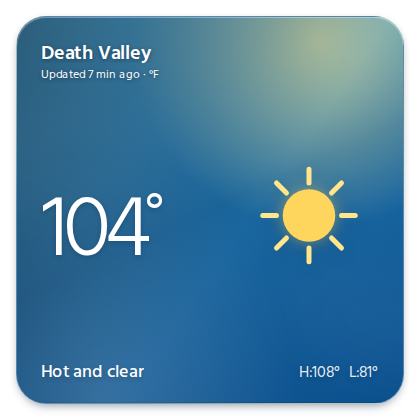
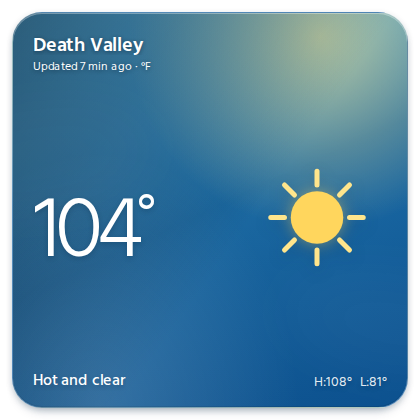
Weather: address second spec review
Past days dropped, a clear-night story, Now shows current conditions,
display rules owned once by the store contract.

Changed region(s): [[0.031, 0.031, 0.9905, 0.9905], [0.0929, 0.4333, 0.4024, 0.619], [0.619, 0.4024, 0.8667, 0.65]]

diff --git a/storybook/spec/templates/weather/weather.stories.ts b/storybook/spec/templates/weather/weather.stories.ts
@@ -113,7 +113,7 @@ const weatherGlyph = (condition: Condition, isDay: boolean, size: "hero" | "hour
       <path class="weather-rain weather-rain-side" d="M64 167l-7 16M174 165l-7 16"></path>`;
   } else {
     artwork = html`
-      <g class="weather-fog-orb">${orb}</g>${cloud}
+      ${cloud}
       <g class="weather-fog-lines">
         <path d="M31 154h150M48 174h143M27 194h118"></path>
       </g>`;
@@ -122,7 +122,13 @@ const weatherGlyph = (condition: Condition, isDay: boolean, size: "hero" | "hour
   return html`<svg class="weather-glyph weather-glyph-${size} weather-glyph-${condition}" viewBox="0 0 224 224" aria-hidden="true">${artwork}</svg>`;
 };
 
-const reading = (value: number) => String(Math.round(value)).replace("-", "−");
+const roundedTemperature = (value: number) => {
+  const magnitude = Math.round(Math.abs(value));
+  if (magnitude === 0) return 0;
+  return value < 0 ? -magnitude : magnitude;
+};
+
+const reading = (value: number) => String(roundedTemperature(value)).replace("-", "−");
 const degree = (value: number) => `${reading(value)}°`;
 
 const atmosphere = html`
@@ -135,7 +141,7 @@ const currentWeather = (forecast: Forecast) => {
   const today = forecast.daily.find((day) => day.label === "Today");
   return html`
   <section class="weather-current" aria-label="Current weather">
-    <div class="weather-temperature" aria-label="${Math.round(forecast.current.temperature)} degrees ${forecast.unit === "C" ? "Celsius" : "Fahrenheit"}">
+    <div class="weather-temperature" aria-label="${roundedTemperature(forecast.current.temperature)} degrees ${forecast.unit === "C" ? "Celsius" : "Fahrenheit"}">
       ${reading(forecast.current.temperature)}<span aria-hidden="true">°</span>
     </div>
     <div class="weather-current-glyph">${weatherGlyph(forecast.current.condition, forecast.current.isDay)}</div>
@@ -149,12 +155,18 @@ const currentWeather = (forecast: Forecast) => {
 const hourlyForecast = (forecast: Forecast) => html`
   <section class="weather-panel weather-hourly" aria-label="Hourly forecast">
     <h2>Hourly forecast</h2>
-    <div class="weather-hourly-strip" tabindex="0" aria-label="Hourly forecast hours; scroll for later hours">${forecast.hourly.map((hour) => html`
+    <div class="weather-hourly-strip" tabindex="0" aria-label="Hourly forecast hours; scroll for later hours">${forecast.hourly.map((hour, index) => {
+      const isNow = index === 0 && hour.label === "Now";
+      const temperature = isNow ? forecast.current.temperature : hour.temperature;
+      const condition = isNow ? forecast.current.condition : hour.condition;
+      const isDay = isNow ? forecast.current.isDay : hour.isDay;
+      return html`
       <div class="weather-hour">
         <span class="weather-hour-label">${hour.label}</span>
-        <span class="weather-hour-condition" role="img" aria-label="${conditionNames[hour.condition]}">${weatherGlyph(hour.condition, hour.isDay, "hour")}</span>
-        <strong>${degree(hour.temperature)}</strong>
-      </div>`)}</div>
+        <span class="weather-hour-condition" role="img" aria-label="${conditionNames[condition]}">${weatherGlyph(condition, isDay, "hour")}</span>
+        <strong>${degree(temperature)}</strong>
+      </div>`;
+    })}</div>
   </section>`;
 
 const dailyForecast = (forecast: Forecast) => {
@@ -188,14 +200,14 @@ const placeholder = (state: Exclude<State, "ready">) => {
   if (state === "unreadable") return html`
     <div class="weather-placeholder-content weather-error" role="alert">
       <span class="weather-placeholder-icon">${icon({ name: "warning", size: "xl" })}</span>
-      <h1>This weather can't be shown</h1>
+      <h1>This forecast can't be shown</h1>
       <p>Its saved data isn't in the form this page reads. Ask your agent to check it.</p>
     </div>`;
   return html`
     <div class="weather-placeholder-content weather-empty">
       ${weatherGlyph("partly-cloudy", true, "empty")}
       <h1>No forecast yet</h1>
-      <p>Ask your agent for the weather here.</p>
+      <p>Ask your agent to add a forecast for a place.</p>
     </div>`;
 };
 
@@ -222,8 +234,8 @@ const render = ({ theme, state, forecast }: Args) => {
           </div>
         </header>
         ${currentWeather(forecast)}
-        ${hourlyForecast(forecast)}
-        ${dailyForecast(forecast)}
+        ${forecast.hourly.length > 0 ? hourlyForecast(forecast) : html``}
+        ${forecast.daily.length > 0 ? dailyForecast(forecast) : html``}
       </div>
     </article>
   </main>`;
@@ -272,6 +284,19 @@ const edinburghNight: Forecast = {
   ],
 };
 
+const sedonaNight: Forecast = {
+  place: "Sedona",
+  unit: "F",
+  updated: "4 min ago",
+  current: { temperature: 52, condition: "clear", summary: "Clear night", isDay: false },
+  hourly: hours([52, 50, 48, 46, 45, 44, 43, 44], ["clear"], nightLabels, 0),
+  daily: [
+    { label: "Today", temperatureHigh: 67, temperatureLow: 43, condition: "clear" },
+    { label: "Wed", temperatureHigh: 69, temperatureLow: 44, condition: "clear" },
+    { label: "Thu", temperatureHigh: 66, temperatureLow: 42, condition: "partly-cloudy" },
+  ],
+};
+
 const seattleCloudy: Forecast = {
   place: "Seattle",
   unit: "F",
@@ -302,7 +327,7 @@ const montrealSnow: Forecast = {
   place: "Montréal",
   unit: "C",
   updated: "21 min ago",
-  current: { temperature: -12, condition: "snow", summary: "Light snow", isDay: true },
+  current: { temperature: -11.5, condition: "snow", summary: "Light snow", isDay: true },
   hourly: hours([-12, -11, -10, -9, -8, -9, -11, -13], ["snow", "snow", "cloudy"], daytimeLabels, 7),
   daily: [
     { label: "Today", temperatureHigh: -8, temperatureLow: -15, condition: "snow" },
@@ -346,7 +371,9 @@ const london: Forecast = {
   unit: "C",
   updated: "9 min ago",
   current: { temperature: 16, condition: "partly-cloudy", summary: "Sun and clouds", isDay: true },
-  hourly: hours([16, 17, 18, 18, 17, 16, 15, 14, 13, 12, 12, 11], ["partly-cloudy", "clear", "cloudy", "rain"], daytimeLabels, 8),
+  // The stored current-hour forecast intentionally differs from current;
+  // the visible Now cell must use current conditions.
+  hourly: hours([15, 17, 18, 18, 17, 16, 15, 14, 13, 12, 12, 11], ["rain", "clear", "cloudy", "rain"], daytimeLabels, 8),
   daily: [
     { label: "Today", temperatureHigh: 18, temperatureLow: 10, condition: "partly-cloudy" },
     { label: "Wed", temperatureHigh: 16, temperatureLow: 9, condition: "rain" },
@@ -398,6 +425,7 @@ export default {
 };
 
 export const ClearDay = { name: "Clear day" };
+export const ClearNight = { name: "Clear night", args: { forecast: sedonaNight } };
 export const PartlyCloudyNight = { name: "Partly cloudy night", args: { forecast: edinburghNight } };
 export const Cloudy = { args: { forecast: seattleCloudy } };
 export const Rain = { ...sized("medium"), args: { forecast: portlandRain } };

diff --git a/storybook/spec/templates/weather/styles.css b/storybook/spec/templates/weather/styles.css
@@ -372,7 +372,6 @@ body {
   translate: 0 -4px;
 }
 
-.weather-fog-orb { opacity: 0.52; }
 .weather-fog-lines path {
   fill: none;
   stroke: rgb(244 250 252 / 88%);
@@ -570,17 +569,6 @@ body {
 }
 
 .weather-empty h1 { margin-top: 0; }
-
-@media (min-width: 380px) and (min-height: 380px) {
-  .weather-page { padding: var(--space-16); }
-
-  .weather-content {
-    padding: var(--space-24) var(--space-24) var(--space-20);
-  }
-
-  .weather-summary { font-size: var(--text-xl); }
-  .weather-high-low { font-size: var(--text-lg); }
-}
 
 @media (min-width: 600px) and (min-height: 480px) {
   .weather-page { padding: var(--space-16); }

diff --git a/docs/working/weather-plan.md b/docs/working/weather-plan.md
@@ -7,23 +7,23 @@ Weather is being drafted as a bundled artifact template with a compact, polished
 - Make the page a reader of agent-written store data. The page subscribes to the whole store, never writes, and makes no weather-service request. An agent fetches the forecast and replaces the stored root.
 - Keep `{}` as the explicit, inspectable starting and reset value in `data.json`. A removed root can also occur and intentionally shows the same empty prompt. Keeping both forms makes a new artifact predictable without treating root removal as an error.
 - Store `place`, an IANA `timeZone`, `units`, `observedAt`, one `current` object, `hourly` entries, and `daily` entries. Keep the first version narrow: temperatures and seven designed conditions only, with no wind, precipitation amount, humidity, air quality, alerts, coordinates, provider metadata, or interaction.
-- Treat `observedAt` and every hourly timestamp as an instant. Accept `Z` or any numeric offset, including optional fractional seconds, then convert the instant to `timeZone` for labels and current-hour selection. Sort hours by instant, which keeps repeated clock labels ordered across a daylight-saving fallback. A “Now” match also includes the effective UTC offset, so only one repeated hour is current. Sort daily entries by date.
-- Let the page tolerate harmless agent output. After stable sorting, keep the first entry for each duplicate instant or date. Show the current and following forecast hours, up to 24, and the first seven distinct sorted days; array order and having more entries do not invalidate an otherwise valid forecast. Every stored item must still have valid fields. Keep only the page-level checks needed to prevent a wrong display: dates and timestamps must be real, `timeZone` must be recognized by the browser, and a daily high cannot be lower than its low. Those checks protect date labels, time conversion, and temperature ranges.
-- Use the closed condition vocabulary `clear`, `partly-cloudy`, `cloudy`, `rain`, `snow`, `thunderstorm`, and `fog`. `cloudy` has a layered overcast sky and artwork with no sun or moon. README guidance maps common provider terms, including drizzle, freezing rain, sleet, haze, and smoke, onto this vocabulary. Each current and hourly entry carries `isDay`, so the page does not infer daylight from the viewer clock.
+- Treat `observedAt` and every hourly timestamp as an instant. `observedAt` is when the agent fetched the complete forecast, not the provider observation time. Accept `Z` or any numeric offset, including optional fractional seconds, then convert hourly instants to `timeZone` for labels and current-hour selection. Sort hours by instant, which keeps repeated clock labels ordered across a daylight-saving fallback. Define the current hour as the local clock-hour interval containing the current instant, and define the current date as the local calendar date containing it. Sort daily entries by date.
+- Let the page tolerate harmless agent output. After stable sorting, keep the first entry for each duplicate instant or date. Show the current and following forecast hours, up to 24, and omit the hourly panel when none remain. Omit dates before the current date, show up to seven remaining distinct days, and omit the daily panel when none remain. Array order and extra entries do not invalidate an otherwise valid forecast. Every stored item must still have valid fields. Keep only the page-level checks needed to prevent a wrong display: dates and timestamps must be real, `timeZone` must be recognized by the browser, and a daily high cannot be lower than its low. Those checks protect date labels, time conversion, and temperature ranges. Keep these selection and validity rules in the store contract; the UI spec links to that single definition.
+- Use the closed condition vocabulary `clear`, `partly-cloudy`, `cloudy`, `rain`, `snow`, `thunderstorm`, and `fog`. `cloudy` has a layered overcast sky and artwork with no sun or moon. README guidance maps common provider terms, including drizzle, freezing rain, sleet, haze, and smoke, onto this vocabulary. Each current and hourly entry carries `isDay`, so the page does not infer daylight from the viewer clock. Only clear and partly cloudy change their sky and artwork between day and night; the other conditions use one design at either time.
 - Derive the displayed current high and low from the daily entry for the current date at `timeZone`. Do not duplicate them in `current`. If that entry is absent, omit the high-and-low line instead of showing another day or rejecting otherwise readable data.
-- Show how old the weather is from `observedAt`, next to the place and unit. Use completed units and the fixed forms “Updated now”, “Updated 1 min ago” or “Updated N min ago”, “Updated 1 hr ago” or “Updated N hrs ago”, and “Updated 1 day ago” or “Updated N days ago”. Future clock skew also shows “Updated now”. Refresh the age while the page stays open.
-- Start the hourly strip with the current hour and call it “Now”. Omit earlier hours. If the current hour is missing, start with the first later instant and do not label it “Now”. If every stored hour is past, omit the hourly panel. Refresh that selection while the page stays open. Convert later labels to `timeZone`, then format them in the viewer locale; spec stories use `en-US`.
-- Label the current daily entry “Today” and refresh the label while the page stays open. The large-panel heading counts the displayed rows, such as “4-day forecast”, instead of assuming seven.
-- Round temperatures to whole degrees for display without changing stored values. Keep the selected unit explicit as `°C` or `°F` rather than relying on magnitude to imply it.
+- Show how long ago the agent fetched the forecast from `observedAt`, below the place and beside the unit. Use completed units and the fixed forms “Updated now”, “Updated 1 min ago” or “Updated N min ago”, “Updated 1 hr ago” or “Updated N hrs ago”, and “Updated 1 day ago” or “Updated N days ago”. Future clock skew also shows “Updated now”. Refresh the age while the page stays open.
+- Start the hourly strip with the first entry in the current hour and call it “Now”. The “Now” cell uses temperature, condition, and daylight from `current`, even if the matching hourly forecast differs. If several entries fall in the current hour, the first is “Now”; later ones use their hourly values and time labels. If the current hour is missing, start with the first later instant and do not label it “Now”. Ask agents to supply one entry per local hour on the hour. Refresh the selection while the page stays open. Convert later labels to `timeZone`, then format them with the `en-US` locale.
+- Label the current daily entry “Today” and refresh the label while the page stays open. Format other weekdays with the `en-US` locale. The large-panel heading counts the displayed rows, such as “4-day forecast”, instead of assuming seven.
+- Round temperatures to whole degrees, with halves away from zero, without changing stored values. Normalize a rounded zero so the page never shows `−0°`. Keep the selected unit explicit as `°C` or `°F` rather than relying on magnitude to imply it.
 - Draft a 340-by-340-pixel default and `transparent: true`. The page paints one inset, rounded sky card with its own rim and bounded shadow, so the artifact reads as a floating weather widget rather than a rectangular document. Temperature and artwork scale together so `104°` and `−12°` fit at the default size.
 - Use three layouts based on both artifact width and height. Small applies below 600 pixels wide or 480 pixels high and shows current conditions. Medium begins at 600 by 480 and adds a horizontally scrolling hourly strip. Large begins at 760 by 740 and adds the daily forecast with shared-scale range bars. Keep a wide, short artifact in the current-only layout: width alone would need a fourth side-by-side composition, while the height gate preserves the legibility of the forecast panel.
-- Let condition and `isDay` choose fixed sky gradients and artwork. Use white text with subtle shadows on every sky. Bright daytime skies darken locally behind the upper-left text so white remains legible. Do not let the active Television theme recolour the sky, because a theme could make daytime look like night or rain look clear. Continue using foundation typography and spacing so the card belongs with the rest of Television.
+- Let condition choose fixed sky gradients and artwork; `isDay` selects the day or night design only for clear and partly cloudy conditions. Use white text with subtle shadows on every sky and a local dark gradient behind the upper-left text. Do not let the active Television theme recolour the sky, because a theme could make daytime look like night or rain look clear. Continue using foundation typography and spacing so the card belongs with the rest of Television.
 - Draw the seven weather glyphs as a coherent first-party SVG set owned by the page. Do not add them to the closed foundation icon vocabulary or introduce third-party weather artwork. The production package will reuse the Phosphor warning and spinner icons from the foundation, so the later implementation must register those copied assets and include the generated `THIRD-PARTY-NOTICES.txt` required by the licensing spec.
 - Make the Toolbox icon a separate first-party square SVG: a rounded blue tile, gold sun, and white cloud. The icon is described now and added with the package after spec approval.
-- Use a calm fixed blue sky for empty, loading, and unreadable states in both appearances. The empty copy is “No forecast yet” and “Ask your agent for the weather here.” The unreadable copy follows the established bundled-template alert.
+- Use a calm fixed blue sky for empty, loading, and unreadable states in both appearances. The empty copy is “No forecast yet” and “Ask your agent to add a forecast for a place.” The unreadable heading is “This forecast can't be shown”; the rest of the alert follows the established bundled-template pattern.
 - Keep access loss and disconnection quiet. The page retains the last forecast, catches up after recovery, and remains in loading only if no store value has arrived. Read-only sharing does not remove forecast browsing because the page has no write interaction.
-- Cover 17 conformance states in the draft stories: clear day in Fahrenheit; partly cloudy night in Celsius; cloudy; rain; snow; night thunderstorm at medium and large sizes; fog; a three-digit Fahrenheit reading; a missing current-day range; explicit medium and large layouts; a four-day large forecast; loading; empty; unreadable; and clear daylight under dark appearance.
-- Keep every story deterministic. The fixtures carry fixed labels and observation ages; the story page makes no network request and does not read the current date, location, or weather. New Orleans has a coherent night-time hourly sequence and its own stormy week.
+- Cover 18 conformance states in the draft stories: clear day and clear night in Fahrenheit; partly cloudy night in Celsius; cloudy; rain; snow; night thunderstorm at medium and large sizes; fog; a three-digit Fahrenheit reading; a missing current-day range; explicit medium and large layouts; a four-day large forecast; loading; empty; unreadable; and clear daylight under dark appearance.
+- Keep every story deterministic. The fixtures carry fixed English labels and fetch ages; the story page makes no network request and does not read the current date, location, or weather. New Orleans has a coherent night-time hourly sequence and its own stormy week. The London fixture makes its current-hour forecast differ from `current`, so its “Now” cell binds the current-condition rule.
 - Keep shared inventory edits to the bundled row and tuple, the three Weather mentions in the migration map, and the generated spec index. The generic template, installation, product, and licensing specs already govern the new package.
 
 ## Open questions for Rupert
@@ -42,4 +42,4 @@ Weather is being drafted as a bundled artifact template with a compact, polished
 - **Should the first version carry more weather facts?** Recommendation: no. Wind, precipitation, humidity, alerts, and feels-like temperature would compete with the requested hierarchy. Current temperature, short condition, high and low, hourly temperatures, and daily ranges are enough for a polished first version.
 - **Should provider attribution be a store field and visible in the card?** Recommendation: not in the agent-written default. The template does not choose or call a provider, so it cannot prescribe one attribution shape. If Rupert chooses a self-fetching provider instead, provider attribution becomes part of that architecture and UI decision.
 - **Does the visual direction feel sufficiently Apple-like without copying Apple artwork?** Recommendation: keep the atmospheric gradients, oversized temperature, translucent forecast panels, restrained white type, and original SVGs. The locally darkened header area protects contrast without turning bright skies into dark cards.
-- **Is the 17-story review surface the right granularity?** Recommendation: yes. Every condition needs a binding current-condition card, responsive composition, the missing current-day range, and variable day count need dedicated states, and the three exceptional store states plus theme invariance remain separate.
+- **Is the 18-story review surface the right granularity?** Recommendation: yes. Every condition needs a binding current-condition card, clear and partly cloudy need their day-or-night designs approved, responsive composition, the missing current-day range, and variable day count need dedicated states, and the three exceptional store states plus theme invariance remain separate.

diff --git a/specs/arch/templates/weather.md b/specs/arch/templates/weather.md
@@ -53,7 +53,7 @@ The template `data.json` seeds the [JSON store belonging to the artifact](../../
       "type": "object",
       "required": ["date", "condition", "high", "low"],
       "properties": {
-        "date": { "$ref": "#/$defs/date" },
+        "date": { "$ref": "#/$defs/date", "description": "Local calendar date at timeZone." },
         "condition": { "$ref": "#/$defs/condition" },
         "high": { "type": "number", "description": "Forecast high temperature in the selected units." },
         "low": { "type": "number", "description": "Forecast low temperature in the selected units." }
@@ -66,7 +66,7 @@ The template `data.json` seeds the [JSON store belonging to the artifact](../../
         "place": { "type": "string", "minLength": 1, "description": "Place name shown on the page." },
         "timeZone": { "type": "string", "minLength": 1, "description": "IANA time-zone identifier for the place." },
         "units": { "enum": ["celsius", "fahrenheit"], "description": "Temperature units for every value in the forecast." },
-        "observedAt": { "$ref": "#/$defs/dateTime", "description": "Instant when the current conditions were observed. Any explicit UTC offset is accepted." },
+        "observedAt": { "$ref": "#/$defs/dateTime", "description": "Instant when the agent fetched this forecast. Any explicit UTC offset is accepted." },
         "current": { "$ref": "#/$defs/current" },
         "hourly": {
           "type": "array",
@@ -86,20 +86,24 @@ The template `data.json` seeds the [JSON store belonging to the artifact](../../
 }
 ```
 
-The schema checks the forms of dates and times, not that they exist, and cannot enumerate IANA time-zone identifiers. The page additionally requires real dates and timestamp instants, a `timeZone` recognized by the browser, and each daily high to be at least its low. These checks prevent false date labels, time-zone conversions, and temperature ranges. A complete value that breaks one of these rules is shown as the [Weather UI spec](../../ui/templates/weather.mdx#data-the-page-cannot-read) describes. Extra fields are ignored.
+The schema checks the forms of dates and times, not that they exist, and cannot enumerate IANA time-zone identifiers. The page additionally requires real dates and timestamp instants, a `timeZone` recognized by the browser, and each daily high to be at least its low. These checks keep the page from displaying dates, local times, or temperature ranges it cannot determine correctly. A complete value that breaks one of these rules is shown as the [Weather UI spec](../../ui/templates/weather.mdx#data-the-page-cannot-read) describes. Extra fields are ignored.
 
-The page parses every timestamp as an instant, regardless of its written offset. It stably sorts hourly entries by instant and daily entries by date, then keeps the first entry for each duplicate instant or date. It omits hourly entries before the current hour at `timeZone`, then shows the current hour and up to 23 following entries. A current-hour match has the same converted year, month, date, hour, and effective UTC offset as the current time, so only one repeated daylight-saving hour can be “Now”. If the stored hours have no current-hour entry, the page starts with the first later instant and no entry is labelled “Now”. If every stored hour is earlier, the page omits the hourly panel. It shows the first seven sorted, distinct daily entries. Having more than either displayed limit does not make an otherwise valid forecast unreadable; every stored entry must still satisfy the schema and the page checks.
+The page parses every timestamp as an instant, regardless of its written offset. The current hour at `timeZone` is the local clock-hour interval containing the current instant; an hourly entry is current when its instant falls within that interval. The current date at `timeZone` is the local calendar date containing the current instant. These definitions distinguish repeated clock hours during a daylight-saving fallback.
+
+The page stably sorts hourly entries by instant and daily entries by date, then keeps the first entry for each duplicate instant or date. It omits hourly entries before the current hour and shows at most 24 entries from the current hour forward. The first entry within the current hour is labelled “Now”; any further entry in that hour uses its time label. If no entry falls within the current hour, the page starts with the first later instant and does not show “Now”. If no hourly entries remain, the page omits the hourly panel.
+
+The page omits daily entries before the current date, then shows the first seven sorted, distinct entries. The entry for the current date is labelled “Today”. If no daily entries remain, the page omits the daily panel. The page refreshes the hourly and daily windows and the “Now” and “Today” labels while it remains open. Having more than either displayed limit does not make an otherwise valid forecast unreadable; every stored entry must still satisfy the schema and the page checks. ^bundled-artifact-template-weather-windows
 
 The current high and low come from the retained daily entry whose date is the current date at `timeZone`. If no daily entry matches, the page omits the high-and-low line rather than using another day. The README tells agents to include the current date in `daily`.
 
-The page subscribes to the whole store through the [resource SDK](../resources/sdk.md) and makes no store writes. Before the subscription returns its first result, the page shows the loading state. Once it returns, no value or the empty object shows the empty forecast state. Any other value must be one complete forecast. The page derives the age shown beside the place from `observedAt`; it never fetches weather or changes the stored forecast. Changes from an agent appear live.
+The page subscribes to the whole store through the [resource SDK](../resources/sdk.md) and makes no store writes. Before the subscription returns its first result, the page shows the loading state. Once it returns, no value or the empty object shows the empty forecast state. Any other value must be one complete forecast. The page derives the “Updated” age shown below the place from the time in `observedAt`, when the agent fetched the forecast; it never fetches weather or changes the stored forecast. Changes from an agent appear live.
 
 ## Packaged page and guidance
 
 The page loads the canonical Television stylesheet and resource SDK, and includes its other page dependencies inside the template folder so copied artifacts work independently. Its stylesheet is `styles.css` in the template folder; [conformance](../../spec-ui.md#conformance) holds the page to the UI spec stories. Weather-condition artwork and the square `icon.svg` are first-party SVG drawings included in the template. The manifest `icons` lists `icon.svg`; [icon delivery](./index.md#icon-delivery) selects it, and [Toolbox](../../ui/app/toolbox.mdx#icons) draws it as supplied. ^bundled-artifact-template-weather-page
 
-The bundled `README.md` explains the empty starting object and every forecast field, including the IANA time zone, condition and units vocabularies, timestamp instants, sorting, displayed limits, and daily high-and-low rule. It says that `Z` means UTC and that any explicit offset is accepted because the page converts each instant to `timeZone` for display.
+The bundled `README.md` explains the empty starting object and every forecast field, including the IANA time zone, condition and units vocabularies, timestamp instants, sorting, displayed limits, and daily high-and-low rule. It says that `observedAt` is the time when the agent fetched the complete forecast and supplies the “Updated” age. It says that `Z` means UTC and that any explicit offset is accepted because the page converts each instant to `timeZone` for display.
 
 The README maps common source conditions onto the closed vocabulary: clear or sunny to `clear`; mixed sun and clouds, mostly clear, or partly cloudy to `partly-cloudy`; cloudy, mostly cloudy, or overcast to `cloudy`; drizzle, showers, rain, or freezing rain to `rain`; snow, flurries, sleet, ice pellets, or wintry mix to `snow`; thunder or lightning to `thunderstorm`; and mist, fog, haze, smoke, dust, or sand to `fog`.
 
-The README tells an adapting agent to fetch weather from a source the agent is allowed to use and replace the root in one `tv resource json set` command. It tells the agent to include the current date in `daily`, include the current hour in `hourly`, and refresh the forecast on a schedule, such as hourly. It says that the page reads the store live without writing to it or making requests to a weather service, that `observedAt` lets the page show how old the forecast is, that invalid or partial data is not repaired, and that copied artifacts are independent. It identifies `styles.css` and the first-party SVGs as the places to adapt the visual design, and explains that the transparent document background works with the manifest display setting applied at creation. ^bundled-artifact-template-weather-readme
+The README tells an adapting agent to fetch weather from a source the agent is allowed to use and replace the root in one `tv resource json set` command. It tells the agent to include the current date in `daily`; include one `hourly` entry for each local clock hour, on the hour at `timeZone`; include the current hour; set `observedAt` to the fetch time; and refresh the forecast on a schedule, such as hourly. It says that the page reads the store live without writing to it or making requests to a weather service, that invalid or partial data is not repaired, and that copied artifacts are independent. It identifies `styles.css` and the first-party SVGs as the places to adapt the visual design, and explains that the transparent document background works with the manifest display setting applied at creation. ^bundled-artifact-template-weather-readme

diff --git a/specs/index.md b/specs/index.md
@@ -97,7 +97,7 @@ Generated from the description line of every spec by `scripts/specs-index.mjs`, 
     - `checklist.md` (47 lines) — *The bundled Checklist artifact template: its display size, store contract, packaged page, and adapting-agent guidance.*
     - `index.md` (199 lines) — *Artifact template architecture: folder validation, starting data and manifest schemas, cached app discovery, fresh CLI scans, icon delivery, and creation of copied folder or URL artifacts.*
     - `sticky-note.md` (53 lines) — *The bundled Sticky note artifact template: its display size, store contract, packaged page, and adapting-agent guidance.*
-    - `weather.md` (105 lines) — *The bundled Weather artifact template: its display size, store contract, packaged page, and adapting-agent guidance.*
+    - `weather.md` (109 lines) — *The bundled Weather artifact template: its display size, store contract, packaged page, and adapting-agent guidance.*
   - **test-runner/**
     - `attestation.md` (132 lines) — *Tree-hash test attestation: recording that an exact tree passed full validation as a bare `refs/testpass/<version>/<tree-hash>` ref, and letting validation-bearing CI runs skip their heavy test jobs — never their cheap ones — when the identical tree is already attested under the current version.*
     - `blaxel-testshards.md` (133 lines) — *The Blaxel shard coordinator: leasing a persistent sandbox pool, selecting the repository workers fetch, sourcing a GitHub token, preparing and locking workers, running shards with dependency-hash caching, and classifying Blaxel shard outcomes.*
@@ -187,7 +187,7 @@ Generated from the description line of every spec by `scripts/specs-index.mjs`, 
     - `calendar.mdx` (169 lines) — *UI spec: the bundled Calendar template page, with the month above one to seven days of events laid out like Apple Calendar.*
     - `checklist.mdx` (133 lines) — *UI spec: the bundled Checklist template page, with a title, list items and an add field in one centred column.*
     - `sticky-note.mdx` (86 lines) — *UI spec: the bundled Sticky note page, for text that a person and an agent can edit together.*
-    - `weather.mdx` (102 lines) — *UI spec: the bundled Weather template page, a floating sky card for current conditions, an hourly outlook, and a multi-day forecast.*
+    - `weather.mdx` (104 lines) — *UI spec: the bundled Weather template page, a floating sky card for current conditions, an hourly outlook, and a multi-day forecast.*
   - **themes/**
     - `index.md` (9 lines) — *UI spec: the bundled theme inventory and the design source for each theme ID.*
     - **aquarium/**
